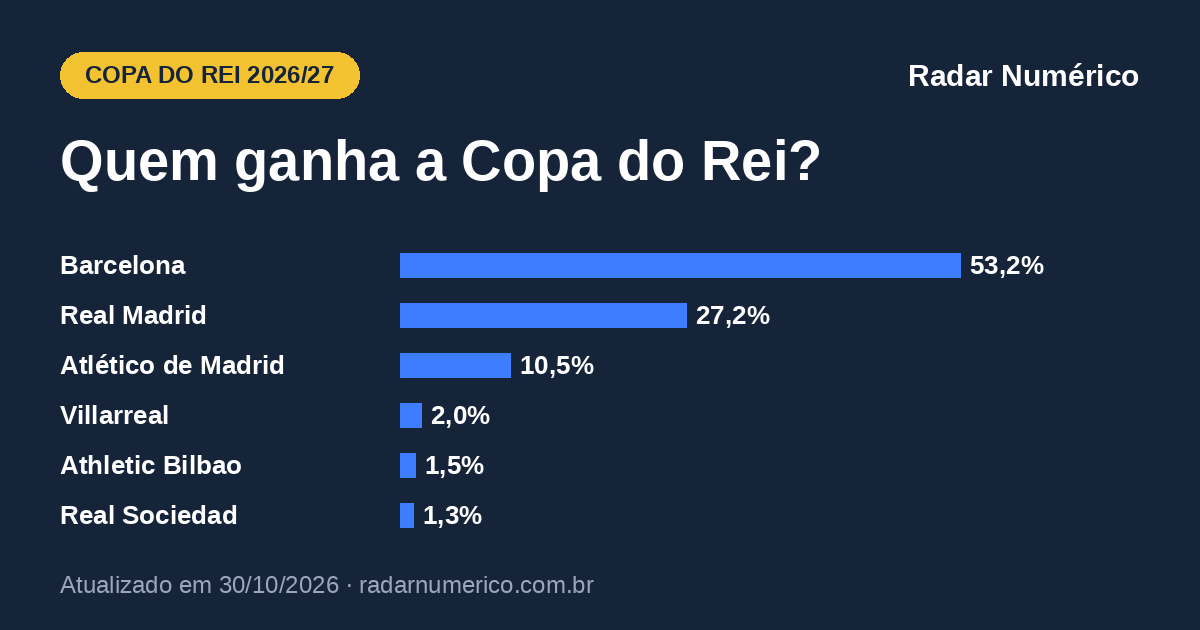
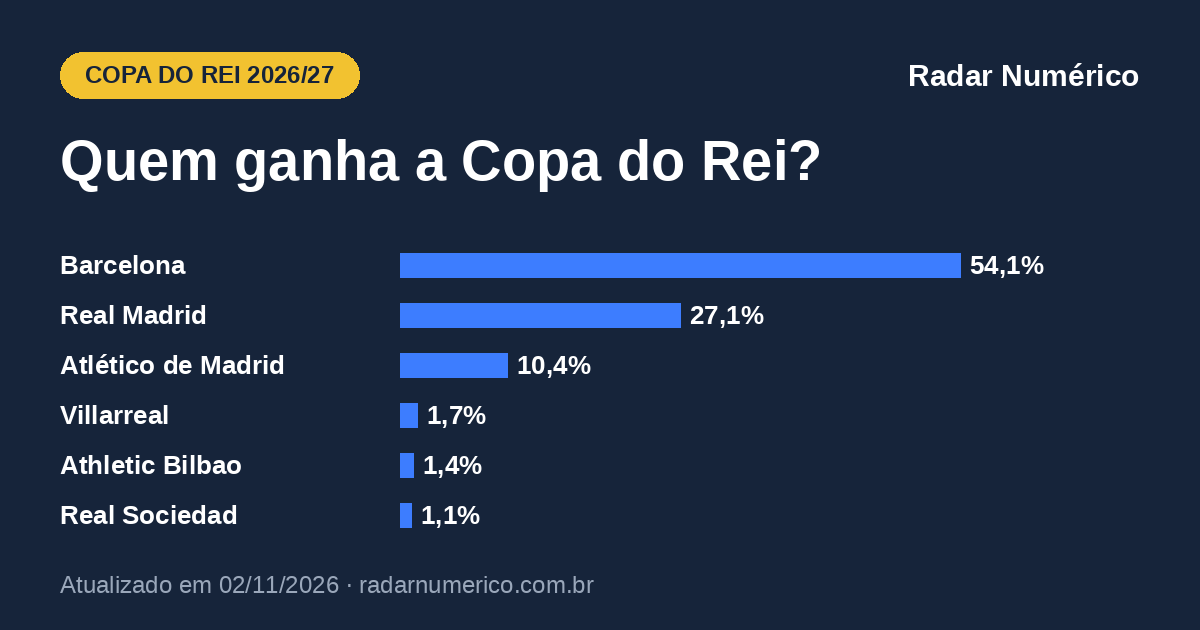
Ranking, ligas e copas europeias: atualizacao semanal 2026-11-02 (copa-do-rei)
Claude-Session: https://claude.ai/code/session_014c9M3pt9p9Std2Yz9ijZme

diff --git a/futebol/copa-do-rei/index.html b/futebol/copa-do-rei/index.html
@@ -13,11 +13,11 @@
 <meta property="og:title" content="Copa do Rei 2026/27: chances de título de cada time">
 <meta property="og:description" content="Probabilidades da Copa do Rei 2026/27: chance de cada time chegar às quartas, à semifinal, à final e de ser campeão.">
 <meta property="og:url" content="https://radarnumerico.com.br/futebol/copa-do-rei/">
-<meta property="og:image" content="https://radarnumerico.com.br/futebol/copa-do-rei/og.png?v=202610301128">
+<meta property="og:image" content="https://radarnumerico.com.br/futebol/copa-do-rei/og.png?v=202611021221">
 <meta property="og:image:width" content="1200">
 <meta property="og:image:height" content="630">
 <meta name="twitter:card" content="summary_large_image">
-<script type="application/ld+json">{"@context": "https://schema.org", "@graph": [{"@type": "WebPage", "@id": "https://radarnumerico.com.br/futebol/copa-do-rei/", "url": "https://radarnumerico.com.br/futebol/copa-do-rei/", "name": "Copa do Rei 2026/27: chances de título de cada time", "description": "Probabilidades da Copa do Rei 2026/27: chance de cada time chegar às quartas, à semifinal, à final e de ser campeão.", "inLanguage": "pt-BR", "dateModified": "2026-10-30T11:28:00-03:00", "isPartOf": {"@type": "WebSite", "name": "Radar Numérico", "url": "https://radarnumerico.com.br/"}, "about": {"@type": "Thing", "name": "Copa do Rei 2026/27"}}, {"@type": "BreadcrumbList", "itemListElement": [{"@type": "ListItem", "position": 1, "name": "Radar Numérico", "item": "https://radarnumerico.com.br/"}, {"@type": "ListItem", "position": 2, "name": "Copa do Rei 2026/27: probabilidades", "item": "https://radarnumerico.com.br/futebol/copa-do-rei/"}]}]}</script>
+<script type="application/ld+json">{"@context": "https://schema.org", "@graph": [{"@type": "WebPage", "@id": "https://radarnumerico.com.br/futebol/copa-do-rei/", "url": "https://radarnumerico.com.br/futebol/copa-do-rei/", "name": "Copa do Rei 2026/27: chances de título de cada time", "description": "Probabilidades da Copa do Rei 2026/27: chance de cada time chegar às quartas, à semifinal, à final e de ser campeão.", "inLanguage": "pt-BR", "dateModified": "2026-11-02T12:21:00-03:00", "isPartOf": {"@type": "WebSite", "name": "Radar Numérico", "url": "https://radarnumerico.com.br/"}, "about": {"@type": "Thing", "name": "Copa do Rei 2026/27"}}, {"@type": "BreadcrumbList", "itemListElement": [{"@type": "ListItem", "position": 1, "name": "Radar Numérico", "item": "https://radarnumerico.com.br/"}, {"@type": "ListItem", "position": 2, "name": "Copa do Rei 2026/27: probabilidades", "item": "https://radarnumerico.com.br/futebol/copa-do-rei/"}]}]}</script>
 <link rel="icon" type="image/png" href="/favicon.png">
 <link rel="apple-touch-icon" href="/apple-touch-icon.png">
 <link rel="preconnect" href="https://fonts.googleapis.com">
@@ -430,8 +430,8 @@ table.mzf td.bc{color:#fff}
 <header class="pg">
   <div class="kicker">Futebol · Espanha</div>
   <h1>Copa do Rei 2026/27: chances de título de cada time</h1>
-  <div class="selo" id="selo"><span>Atualizado em <b>30/10/2026 às 11h28</b></span><span>fase atual: <b>1ª fase</b></span><span>76 times vivos</span></div>
-  <p class="lede">O favorito ao título da Copa do Rei é o <b>Barcelona</b>, com 53,2%, seguido por Real Madrid (27,2%) e Atlético de Madrid (10,5%). Calculamos, para os 76 times vivos, a chance de chegar a cada fase, simulando os jogos já marcados e o sorteio das fases seguintes 20 mil vezes. O campeão ganha vaga na Liga Europa.</p>
+  <div class="selo" id="selo"><span>Atualizado em <b>02/11/2026 às 12h21</b></span><span>fase atual: <b>1ª fase</b></span><span>76 times vivos</span></div>
+  <p class="lede">O favorito ao título da Copa do Rei é o <b>Barcelona</b>, com 54,1%, seguido por Real Madrid (27,1%) e Atlético de Madrid (10,4%). Calculamos, para os 76 times vivos, a chance de chegar a cada fase, simulando os jogos já marcados e o sorteio das fases seguintes 20 mil vezes. O campeão ganha vaga na Liga Europa.</p>
 </header>
 
 <section class="g" id="s-trilha">
@@ -489,7 +489,7 @@ table.mzf td.bc{color:#fff}
 
 <div class="metod">
   <p class="marca">Radar Numérico</p>
-  <p id="rodape">Probabilidades da Copa do Rei 2026/27 atualizadas em 30/10/2026 às 11h28.</p>
+  <p id="rodape">Probabilidades da Copa do Rei 2026/27 atualizadas em 02/11/2026 às 12h21.</p>
   <p>Como calculamos: um algoritmo desenvolvido pelo economista Augusto Pellegrini estima a força de cada time a partir das cotações de mercado de todos os seus jogos recentes, em todas as competições. Simulamos a copa 20 mil vezes: os jogos já marcados e, depois, o sorteio de cada fase. Empate em jogo único vai à prorrogação e aos pênaltis. Fonte: Radar Numérico.</p>
 </div>
 </main>
@@ -498,7 +498,7 @@ table.mzf td.bc{color:#fff}
 <div id="tip" role="tooltip"></div>
 <div id="toast" role="status"></div>
 <script>
-const D = {"slug":"copa-do-rei","nome":"Copa do Rei","gerado_em":"2026-10-30T11:28","tams":[32,16,8,4,2,1],"rot":["16 avos","Oitavas","Quartas","Semifinal","Final","Campeão"],"atual_rot":"1ª fase","cai_antes":"Cai na 1ª fase ou na 2ª fase","n_vivos":76,"times":{"Club Portugalete":{"id":"3584","fases":[0.0671,0.0115,0.0018,0.0,0.0,0.0],"campeao":0.0,"forca":17.0,"cab":false},"Real Madrid":{"id":"1","fases":[1.0,0.8892,0.7559,0.6177,0.4757,0.2717],"campeao":0.2717,"forca":70.4,"cab":true},"Atlético de Madrid":{"id":"2","fases":[1.0,0.8183,0.63,0.4512,0.2734,0.1052],"campeao":0.1052,"forca":63.4,"cab":true},"Barcelona":{"id":"3","fases":[1.0,0.9251,0.8326,0.7425,0.6764,0.5316],"campeao":0.5316,"forca":76.5,"cab":true},"CE Europa":{"id":"3593","fases":[0.4227,0.1478,0.0414,0.008,0.0002,0.0],"campeao":0.0,"forca":30.0,"cab":false},"CD Castellon":{"id":"3601","fases":[0.507,0.2185,0.0809,0.0217,0.0029,0.0001],"campeao":0.0001,"forca":36.4,"cab":false},"Zamora CF":{"id":"33310","fases":[0.4251,0.1489,0.0408,0.0076,0.0004,0.0],"campeao":0.0,"forca":30.0,"cab":false},"CD Coria":{"id":"3616","fases":[0.4235,0.146,0.0422,0.0072,0.0006,0.0001],"campeao":0.0001,"forca":30.0,"cab":false},"Villarreal":{"id":"40","fases":[0.792,0.5583,0.3534,0.2029,0.0858,0.0203],"campeao":0.0203,"forca":54.9,"cab":false},"Gimnastica de Torrelavega":{"id":"7989","fases":[0.4246,0.1449,0.0423,0.0092,0.0006,0.0],"campeao":0.0,"forca":30.0,"cab":false},"Arosa":{"id":"7991","fases":[0.2531,0.052,0.0076,0.0006,0.0001,0.0],"campeao":0.0,"forca":18.7,"cab":false},"UE Tavernes":{"id":"203089","fases":[0.1047,0.0365,0.0112,0.0019,0.0001,0.0],"campeao":0.0,"forca":30.0,"cab":false},"Badajoz":{"id":"17246","fases":[0.1732,0.0624,0.0184,0.0029,0.0001,0.0],"campeao":0.0,"forca":30.0,"cab":false},"Extremadura":{"id":"17247","fases":[0.3199,0.0804,0.0167,0.0019,0.0001,0.0],"campeao":0.0,"forca":22.8,"cab":false},"Rayo Majadahonda":{"id":"8047","fases":[0.4243,0.1485,0.0442,0.0075,0.0004,0.0],"campeao":0.0,"forca":30.0,"cab":false},"CDA Navalcarnero":{"id":"8051","fases":[0.029,0.0082,0.0014,0.0001,0.0,0.0],"campeao":0.0,"forca":23.4,"cab":false},"Real Avila":{"id":"9641","fases":[0.3179,0.0801,0.0153,0.0016,0.0,0.0],"campeao":0.0,"forca":22.5,"cab":false},"Salmantino":{"id":"8065","fases":[0.0925,0.0324,0.0102,0.0021,0.0001,0.0],"campeao":0.0,"forca":30.0,"cab":false},"Almeria":{"id":"3461","fases":[0.6117,0.319,0.1473,0.0519,0.0106,0.0011],"campeao":0.0011,"forca":42.4,"cab":false},"Anaitasuna FT":{"id":"67974","fases":[0.0935,0.0331,0.0088,0.0019,0.0002,0.0],"campeao":0.0,"forca":30.0,"cab":false},"Athletic Bilbao":{"id":"3463","fases":[0.7648,0.5246,0.3196,0.1767,0.0717,0.0146],"campeao":0.0146,"forca":53.4,"cab":false},"Celta de Vigo":{"id":"3468","fases":[0.5514,0.335,0.1782,0.0844,0.0245,0.0037],"campeao":0.0037,"forca":48.7,"cab":false},"CD Atletico Paso":{"id":"105868","fases":[0.4258,0.1496,0.0427,0.007,0.0003,0.0],"campeao":0.0,"forca":30.0,"cab":false},"Elche":{"id":"3471","fases":[0.59,0.3029,0.1349,0.0466,0.0076,0.0008],"campeao":0.0008,"forca":41.5,"cab":false},"Getafe":{"id":"3475","fases":[0.6191,0.3285,0.155,0.0597,0.0123,0.0013],"campeao":0.0013,"forca":43.6,"cab":false},"Antequera":{"id":"8084","fases":[0.3981,0.1351,0.0402,0.0079,0.0005,0.0],"campeao":0.0,"forca":30.1,"cab":false},"Granada":{"id":"3477","fases":[0.5297,0.2406,0.0915,0.0253,0.0033,0.0],"campeao":0.0,"forca":38.2,"cab":false},"Levante":{"id":"3479","fases":[0.4237,0.2229,0.1017,0.0375,0.0076,0.0011],"campeao":0.0011,"forca":43.1,"cab":false},"AD Ceuta":{"id":"8089","fases":[0.4461,0.1651,0.0503,0.0113,0.0009,0.0001],"campeao":0.0001,"forca":32.7,"cab":false},"CD Leganes":{"id":"1178","fases":[0.2935,0.1283,0.0488,0.0137,0.0016,0.0001],"campeao":0.0001,"forca":36.9,"cab":false},"Málaga":{"id":"3482","fases":[0.5791,0.2919,0.1288,0.0425,0.0073,0.0009],"campeao":0.0009,"forca":40.9,"cab":false},"Racing Santander":{"id":"1180","fases":[0.5966,0.3086,0.1449,0.0547,0.0105,0.0008],"campeao":0.0008,"forca":42.4,"cab":false},"Rayo Vallecano":{"id":"3485","fases":[0.6924,0.4133,0.2175,0.095,0.0267,0.0037],"campeao":0.0037,"forca":47.7,"cab":false},"Cadiz":{"id":"1177","fases":[0.4838,0.1981,0.0701,0.0163,0.0014,0.0001],"campeao":0.0001,"forca":35.3,"cab":false},"Real Sociedad":{"id":"3487","fases":[1.0,0.6624,0.3937,0.2095,0.0727,0.0129],"campeao":0.0129,"forca":52.0,"cab":true},"Sevilla":{"id":"3490","fases":[0.7004,0.428,0.2345,0.1087,0.0316,0.0046],"campeao":0.0046,"forca":48.5,"cab":false},"CD Mirandes":{"id":"933","fases":[0.4553,0.1763,0.0551,0.0118,0.001,0.0001],"campeao":0.0001,"forca":33.6,"cab":false},"Valencia":{"id":"3494","fases":[0.498,0.2872,0.1446,0.0621,0.0146,0.0014],"campeao":0.0014,"forca":46.0,"cab":false},"Alavés":{"id":"168","fases":[0.5416,0.3249,0.1716,0.0768,0.0214,0.0029],"campeao":0.0029,"forca":47.6,"cab":false},"Deportiva Ponferradina":{"id":"936","fases":[0.4338,0.1596,0.0512,0.0107,0.0013,0.0],"campeao":0.0,"forca":32.2,"cab":false},"Girona":{"id":"938","fases":[0.7157,0.4478,0.2482,0.1183,0.0372,0.0056],"campeao":0.0056,"forca":49.8,"cab":false},"Betis":{"id":"3499","fases":[0.6897,0.4602,0.2767,0.1476,0.0537,0.0102],"campeao":0.0102,"forca":52.6,"cab":false},"UD Las Palmas":{"id":"940","fases":[0.4249,0.1484,0.0432,0.0086,0.0005,0.0],"campeao":0.0,"forca":30.0,"cab":false},"Mallorca":{"id":"939","fases":[0.4943,0.2858,0.1464,0.0614,0.0152,0.0017],"campeao":0.0017,"forca":45.9,"cab":false},"Numancia":{"id":"174","fases":[0.418,0.1434,0.0387,0.0053,0.0002,0.0],"campeao":0.0,"forca":28.2,"cab":false},"Tenerife":{"id":"943","fases":[0.3026,0.1338,0.0519,0.0146,0.0014,0.0],"campeao":0.0,"forca":37.6,"cab":false},"Osasuna":{"id":"3503","fases":[0.6362,0.3554,0.1749,0.069,0.0144,0.0015],"campeao":0.0015,"forca":44.9,"cab":false},"SD Eibar":{"id":"945","fases":[0.3008,0.1308,0.0506,0.0143,0.002,0.0002],"campeao":0.0002,"forca":37.7,"cab":false},"Valladolid":{"id":"3506","fases":[0.4233,0.1488,0.043,0.007,0.0005,0.0],"campeao":0.0,"forca":30.0,"cab":false},"Deportivo La Coruña":{"id":"947","fases":[0.6152,0.3241,0.1507,0.0515,0.0103,0.001],"campeao":0.001,"forca":42.9,"cab":false},"Real Jaen":{"id":"948","fases":[0.1721,0.0582,0.0169,0.003,0.0001,0.0],"campeao":0.0,"forca":30.0,"cab":false},"CE Sabadell":{"id":"950","fases":[0.298,0.1295,0.0499,0.0138,0.0018,0.0001],"campeao":0.0001,"forca":37.1,"cab":false},"Real Zaragoza":{"id":"951","fases":[0.4487,0.1686,0.0539,0.0114,0.001,0.0001],"campeao":0.0001,"forca":32.8,"cab":false},"Sporting Gijon":{"id":"952","fases":[0.5211,0.2326,0.0869,0.0239,0.0029,0.0001],"campeao":0.0001,"forca":37.6,"cab":false},"Burgos":{"id":"3512","fases":[0.4775,0.1913,0.0649,0.0158,0.0013,0.0001],"campeao":0.0001,"forca":34.6,"cab":false},"CD Leonesa":{"id":"3515","fases":[0.502,0.2095,0.0744,0.0191,0.0018,0.0001],"campeao":0.0001,"forca":35.9,"cab":false},"Albacete":{"id":"3497","fases":[0.2918,0.1296,0.0517,0.0146,0.0016,0.0001],"campeao":0.0001,"forca":37.2,"cab":false},"Deportiva Minera":{"id":"8125","fases":[0.2628,0.092,0.0268,0.0049,0.0003,0.0],"campeao":0.0,"forca":30.0,"cab":false},"UD Logrones":{"id":"3526","fases":[0.0826,0.0202,0.0037,0.0003,0.0,0.0],"campeao":0.0,"forca":22.4,"cab":false},"SD Amorebieta":{"id":"3528","fases":[0.3116,0.109,0.0315,0.006,0.0003,0.0],"campeao":0.0,"forca":30.0,"cab":false},"Barakaldo":{"id":"3529","fases":[0.2478,0.0891,0.0264,0.0056,0.0004,0.0],"campeao":0.0,"forca":30.0,"cab":false},"SD Huesca":{"id":"3533","fases":[0.5158,0.2258,0.0872,0.0242,0.0028,0.0002],"campeao":0.0002,"forca":37.2,"cab":false},"Real Union De Irun":{"id":"3535","fases":[0.2916,0.104,0.0291,0.0046,0.0001,0.0],"campeao":0.0,"forca":30.0,"cab":false},"Sestao River":{"id":"3536","fases":[0.3276,0.0852,0.0185,0.0021,0.0001,0.0],"campeao":0.0,"forca":23.7,"cab":false},"CD Pamplona":{"id":"8144","fases":[0.177,0.0635,0.0188,0.0029,0.0003,0.0],"campeao":0.0,"forca":30.0,"cab":false},"Trival Valderas":{"id":"3538","fases":[0.1799,0.0628,0.0188,0.0038,0.0002,0.0],"campeao":0.0,"forca":30.0,"cab":false},"CD Alcoyano":{"id":"3540","fases":[0.107,0.0357,0.0109,0.0021,0.0001,0.0],"campeao":0.0,"forca":30.0,"cab":false},"Eldense":{"id":"3544","fases":[0.4387,0.1584,0.0518,0.0101,0.0009,0.0001],"campeao":0.0001,"forca":31.8,"cab":false},"UE Sant Andreu":{"id":"3549","fases":[0.3219,0.0838,0.0173,0.0028,0.0001,0.0],"campeao":0.0,"forca":23.7,"cab":false},"FC Andorra":{"id":"8158","fases":[0.4728,0.187,0.0644,0.0156,0.0015,0.0001],"campeao":0.0001,"forca":34.3,"cab":false},"Cartagena":{"id":"3553","fases":[0.1541,0.0496,0.014,0.0024,0.0001,0.0],"campeao":0.0,"forca":28.2,"cab":false},"Utebo FC":{"id":"8163","fases":[0.1805,0.0611,0.0185,0.0035,0.0001,0.0],"campeao":0.0,"forca":30.0,"cab":false},"Calvo Sotelo Puertollano":{"id":"8165","fases":[0.1757,0.0588,0.0169,0.0031,0.0001,0.0],"campeao":0.0,"forca":30.0,"cab":false},"Reus Reddis":{"id":"163569","fases":[0.1335,0.0347,0.0052,0.0004,0.0,0.0],"campeao":0.0,"forca":22.6,"cab":false},"CD Mijas":{"id":"22772","fases":[0.2537,0.0916,0.0266,0.0048,0.0003,0.0],"campeao":0.0,"forca":30.0,"cab":false},"CD Tarancon":{"id":"87288","fases":[0.1284,0.046,0.0131,0.003,0.0001,0.0],"campeao":0.0,"forca":30.0,"cab":false}},"ordem":["Barcelona","Real Madrid","Atlético de Madrid","Villarreal","Athletic Bilbao","Real Sociedad","Betis","Girona","Sevilla","Celta de Vigo","Rayo Vallecano","Alavés","Mallorca","Osasuna","Valencia","Getafe","Levante","Almeria","Deportivo La Coruña","Málaga","Racing Santander","Elche","SD Eibar","SD Huesca","Sporting Gijon","Albacete","CE Sabadell","CD Leganes","CD Castellon","CD Leonesa","Cadiz","Burgos","FC Andorra","CD Mirandes","Real Zaragoza","AD Ceuta","Eldense","CD Coria","Granada","Tenerife","Deportiva Ponferradina","Antequera","CE Europa","Zamora CF","Gimnastica de Torrelavega","UE Tavernes","Badajoz","Rayo Majadahonda","Salmantino","Anaitasuna FT","CD Atletico Paso","UD Las Palmas","Valladolid","Real Jaen","Deportiva Minera","SD Amorebieta","Barakaldo","Real Union De Irun","CD Pamplona","Trival Valderas","CD Alcoyano","Utebo FC","Calvo Sotelo Puertollano","CD Mijas","CD Tarancon","Numancia","Cartagena","Sestao River","UE Sant Andreu","CDA Navalcarnero","Extremadura","Reus Reddis","Real Avila","UD Logrones","Arosa","Club Portugalete"],"confrontos":[{"m":"CD Pamplona","v":"SD Eibar","pm":0.4097,"vm":0.2955,"e":0.2844,"vv":0.4201},{"m":"Anaitasuna FT","v":"Alavés","pm":0.2171,"vm":0.1652,"e":0.2507,"vv":0.5841},{"m":"Club Portugalete","v":"Real Union De Irun","pm":0.2988,"vm":0.2202,"e":0.2704,"vv":0.5094},{"m":"SD Amorebieta","v":"UD Logrones","pm":0.7386,"vm":0.5502,"e":0.2605,"vv":0.1893},{"m":"Utebo FC","v":"CE Sabadell","pm":0.4261,"vm":0.3061,"e":0.2854,"vv":0.4085},{"m":"Deportiva Minera","v":"Cartagena","pm":0.6258,"vm":0.4525,"e":0.2805,"vv":0.2669},{"m":"Calvo Sotelo Puertollano","v":"Albacete","pm":0.4248,"vm":0.3033,"e":0.2852,"vv":0.4115},{"m":"Badajoz","v":"Tenerife","pm":0.4159,"vm":0.2982,"e":0.2847,"vv":0.4171},{"m":"CD Tarancon","v":"Levante","pm":0.2987,"vm":0.2184,"e":0.2699,"vv":0.5117},{"m":"CD Alcoyano","v":"Mallorca","pm":0.25,"vm":0.1845,"e":0.2587,"vv":0.5568},{"m":"Trival Valderas","v":"CD Leganes","pm":0.4275,"vm":0.3084,"e":0.2856,"vv":0.406},{"m":"CDA Navalcarnero","v":"Betis","pm":0.0894,"vm":0.0719,"e":0.1864,"vv":0.7417},{"m":"Reus Reddis","v":"Barakaldo","pm":0.423,"vm":0.3011,"e":0.285,"vv":0.4139},{"m":"Salmantino","v":"Celta de Vigo","pm":0.2057,"vm":0.1536,"e":0.2453,"vv":0.6012},{"m":"UE Tavernes","v":"Valencia","pm":0.2422,"vm":0.1827,"e":0.258,"vv":0.5593},{"m":"CD Mijas","v":"Real Jaen","pm":0.5923,"vm":0.4223,"e":0.2842,"vv":0.2935}],"finais":[{"a":"Real Madrid","b":"Barcelona","p":0.2506,"pa":0.3649},{"a":"Atlético de Madrid","b":"Barcelona","p":0.1339,"pa":0.224},{"a":"Real Madrid","b":"Atlético de Madrid","p":0.0756,"pa":0.6596},{"a":"Barcelona","b":"Villarreal","p":0.0436,"pa":0.8624},{"a":"Barcelona","b":"Real Sociedad","p":0.0383,"pa":0.9204},{"a":"Barcelona","b":"Athletic Bilbao","p":0.0367,"pa":0.9154}],"outros":0.0,"matriz":{"tipo":"sorteio","linhas":[["Barcelona",0.6764],["Real Madrid",0.4757],["Atlético de Madrid",0.2734],["Villarreal",0.0858],["Real Sociedad",0.0727]],"colunas":[["Real Madrid",0.4757],["Atlético de Madrid",0.2734],["Villarreal",0.0858],["Real Sociedad",0.0727],["Athletic Bilbao",0.0717]],"cel":[[0.2506,0.1339,0.0436,0.0383,0.0367],[null,0.0756,0.0219,0.0179,0.0171],[null,null,0.0098,0.0078,0.0086],[null,null,null,0.0015,0.0013],[null,null,null,null,0.0014]]},"chave":{"fases":["16 avos","Oitavas","Quartas","Semifinal","Final"],"jogos":[[null,null],[null,null],[null,null],[null,null],[null,null],[null,null],[null,null],[null,null],[null,null],[null,null],[null,null],[null,null],[null,null],[null,null],[null,null],[null,null]],"atual":false,"p":null,"fixa":false},"SIGLA":{"Club Portugalete":"CLU","Real Madrid":"RMA","Atlético de Madrid":"ATM","Barcelona":"BAR","CE Europa":"CEE","CD Castellon":"CDC","Zamora CF":"ZAM","CD Coria":"CDC","Villarreal":"VIL","Gimnastica de Torrelavega":"GIM","Arosa":"ARO","UE Tavernes":"UET","Badajoz":"BAD","Extremadura":"EXT","Rayo Majadahonda":"RAY","CDA Navalcarnero":"CDA","Real Avila":"REA","Salmantino":"SAL","Almeria":"ALM","Anaitasuna FT":"ANA","Athletic Bilbao":"ATH","Celta de Vigo":"CEL","CD Atletico Paso":"CDA","Elche":"ELC","Getafe":"GET","Antequera":"ANT","Granada":"GRA","Levante":"LEV","AD Ceuta":"ADC","CD Leganes":"CDL","Málaga":"MAL","Racing Santander":"RAC","Rayo Vallecano":"RAY","Cadiz":"CAD","Real Sociedad":"REA","Sevilla":"SEV","CD Mirandes":"CDM","Valencia":"VAL","Alavés":"ALA","Deportiva Ponferradina":"DEP","Girona":"GIR","Betis":"BET","UD Las Palmas":"UDL","Mallorca":"MAL","Numancia":"NUM","Tenerife":"TEN","Osasuna":"OSA","SD Eibar":"SDE","Valladolid":"VAL","Deportivo La Coruña":"DEP","Real Jaen":"REA","CE Sabadell":"CES","Real Zaragoza":"REA","Sporting Gijon":"SPO","Burgos":"BUR","CD Leonesa":"CDL","Albacete":"ALB","Deportiva Minera":"DEP","UD Logrones":"UDL","SD Amorebieta":"SDA","Barakaldo":"BAR","SD Huesca":"SDH","Real Union De Irun":"REA","Sestao River":"SES","CD Pamplona":"CDP","Trival Valderas":"TRI","CD Alcoyano":"CDA","Eldense":"ELD","UE Sant Andreu":"UES","FC Andorra":"FCA","Cartagena":"CAR","Utebo FC":"UTE","Calvo Sotelo Puertollano":"CAL","Reus Reddis":"REU","CD Mijas":"CDM","CD Tarancon":"CDT"},"SLUG":{"Club Portugalete":"club-portugalete","Real Madrid":"real-madrid","Atlético de Madrid":"atletico-de-madrid","Barcelona":"barcelona","CE Europa":"ce-europa","CD Castellon":"cd-castellon","Zamora CF":"zamora-cf","CD Coria":"cd-coria","Villarreal":"villarreal","Gimnastica de Torrelavega":"gimnastica-de-torrelavega","Arosa":"arosa","UE Tavernes":"ue-tavernes","Badajoz":"badajoz","Extremadura":"extremadura","Rayo Majadahonda":"rayo-majadahonda","CDA Navalcarnero":"cda-navalcarnero","Real Avila":"real-avila","Salmantino":"salmantino","Almeria":"almeria","Anaitasuna FT":"anaitasuna-ft","Athletic Bilbao":"athletic-bilbao","Celta de Vigo":"celta-de-vigo","CD Atletico Paso":"cd-atletico-paso","Elche":"elche","Getafe":"getafe","Antequera":"antequera","Granada":"granada","Levante":"levante","AD Ceuta":"ad-ceuta","CD Leganes":"cd-leganes","Málaga":"malaga","Racing Santander":"racing-santander","Rayo Vallecano":"rayo-vallecano","Cadiz":"cadiz","Real Sociedad":"real-sociedad","Sevilla":"sevilla","CD Mirandes":"cd-mirandes","Valencia":"valencia","Alavés":"alaves","Deportiva Ponferradina":"deportiva-ponferradina","Girona":"girona","Betis":"betis","UD Las Palmas":"ud-las-palmas","Mallorca":"mallorca","Numancia":"numancia","Tenerife":"tenerife","Osasuna":"osasuna","SD Eibar":"sd-eibar","Valladolid":"valladolid","Deportivo La Coruña":"deportivo-la-coruna","Real Jaen":"real-jaen","CE Sabadell":"ce-sabadell","Real Zaragoza":"real-zaragoza","Sporting Gijon":"sporting-gijon","Burgos":"burgos","CD Leonesa":"cd-leonesa","Albacete":"albacete","Deportiva Minera":"deportiva-minera","UD Logrones":"ud-logrones","SD Amorebieta":"sd-amorebieta","Barakaldo":"barakaldo","SD Huesca":"sd-huesca","Real Union De Irun":"real-union-de-irun","Sestao River":"sestao-river","CD Pamplona":"cd-pamplona","Trival Valderas":"trival-valderas","CD Alcoyano":"cd-alcoyano","Eldense":"eldense","UE Sant Andreu":"ue-sant-andreu","FC Andorra":"fc-andorra","Cartagena":"cartagena","Utebo FC":"utebo-fc","Calvo Sotelo Puertollano":"calvo-sotelo-puertollano","Reus Reddis":"reus-reddis","CD Mijas":"cd-mijas","CD Tarancon":"cd-tarancon"},"CORES":{"Club Portugalete":["#111111","#FFFFFF"],"Real Madrid":["#FFFFFF","#FEBE10"],"Atlético de Madrid":["#CB3524","#FFFFFF"],"Barcelona":["#A50044","#004D98"],"CE Europa":["#E35205","#FFFFFF"],"CD Castellon":["#16243A","#FFFFFF"],"Zamora CF":["#3EA6DD","#FFFFFF"],"CD Coria":["#C8102E","#FFFFFF"],"Villarreal":["#FFE667","#005187"],"Gimnastica de Torrelavega":["#3EA6DD","#FFFFFF"],"Arosa":["#0055A4","#FFFFFF"],"UE Tavernes":["#111111","#FFFFFF"],"Badajoz":["#5B2C83","#FFFFFF"],"Extremadura":["#6C1D45","#FFFFFF"],"Rayo Majadahonda":["#5B2C83","#FFFFFF"],"CDA Navalcarnero":["#111111","#FFFFFF"],"Real Avila":["#00843D","#FFFFFF"],"Salmantino":["#111111","#FFFFFF"],"Almeria":["#5B2C83","#FFFFFF"],"Anaitasuna FT":["#F2C230","#FFFFFF"],"Athletic Bilbao":["#C8102E","#FFFFFF"],"Celta de Vigo":["#5B2C83","#FFFFFF"],"CD Atletico Paso":["#00843D","#FFFFFF"],"Elche":["#C8102E","#FFFFFF"],"Getafe":["#E35205","#FFFFFF"],"Antequera":["#6C1D45","#FFFFFF"],"Granada":["#111111","#FFFFFF"],"Levante":["#5B2C83","#FFFFFF"],"AD Ceuta":["#00843D","#FFFFFF"],"CD Leganes":["#16243A","#FFFFFF"],"Málaga":["#3EA6DD","#FFFFFF"],"Racing Santander":["#111111","#FFFFFF"],"Rayo Vallecano":["#16243A","#FFFFFF"],"Cadiz":["#C8102E","#FFFFFF"],"Real Sociedad":["#111111","#FFFFFF"],"Sevilla":["#16243A","#FFFFFF"],"CD Mirandes":["#111111","#FFFFFF"],"Valencia":["#00843D","#FFFFFF"],"Alavés":["#111111","#FFFFFF"],"Deportiva Ponferradina":["#F2C230","#FFFFFF"],"Girona":["#E35205","#FFFFFF"],"Betis":["#0BB363","#FFFFFF"],"UD Las Palmas":["#C8102E","#FFFFFF"],"Mallorca":["#C8102E","#FFFFFF"],"Numancia":["#0055A4","#FFFFFF"],"Tenerife":["#E35205","#FFFFFF"],"Osasuna":["#16243A","#FFFFFF"],"SD Eibar":["#111111","#FFFFFF"],"Valladolid":["#16243A","#FFFFFF"],"Deportivo La Coruña":["#16243A","#FFFFFF"],"Real Jaen":["#0055A4","#FFFFFF"],"CE Sabadell":["#16243A","#FFFFFF"],"Real Zaragoza":["#C8102E","#FFFFFF"],"Sporting Gijon":["#5B2C83","#FFFFFF"],"Burgos":["#111111","#FFFFFF"],"CD Leonesa":["#E35205","#FFFFFF"],"Albacete":["#F2C230","#FFFFFF"],"Deportiva Minera":["#E35205","#FFFFFF"],"UD Logrones":["#111111","#FFFFFF"],"SD Amorebieta":["#16243A","#FFFFFF"],"Barakaldo":["#3EA6DD","#FFFFFF"],"SD Huesca":["#6C1D45","#FFFFFF"],"Real Union De Irun":["#E35205","#FFFFFF"],"Sestao River":["#F2C230","#FFFFFF"],"CD Pamplona":["#C8102E","#FFFFFF"],"Trival Valderas":["#111111","#FFFFFF"],"CD Alcoyano":["#5B2C83","#FFFFFF"],"Eldense":["#6C1D45","#FFFFFF"],"UE Sant Andreu":["#C8102E","#FFFFFF"],"FC Andorra":["#16243A","#FFFFFF"],"Cartagena":["#0055A4","#FFFFFF"],"Utebo FC":["#16243A","#FFFFFF"],"Calvo Sotelo Puertollano":["#E35205","#FFFFFF"],"Reus Reddis":["#16243A","#FFFFFF"],"CD Mijas":["#3EA6DD","#FFFFFF"],"CD Tarancon":["#5B2C83","#FFFFFF"]},"vaga":"Liga Europa","liga":"la-liga","liga_nome":"La Liga","nota_fase":"Jogo único na casa do time de divisão mais baixa até as oitavas; quartas em jogo único; semifinal em ida e volta. Os quatro times da Supercopa (Barcelona, Real Madrid, Atlético de Madrid e Real Sociedad) entram nos 16 avos de final.","final":"Final em jogo único, em campo neutro.","ultimo_jogo":{"data":"2026-10-29","hora":"17:00","m":"Xerez CD","v":"Cadiz","gm":1,"gv":3,"rodada":"Round 1"}};
+const D = {"slug":"copa-do-rei","nome":"Copa do Rei","gerado_em":"2026-11-02T12:21","tams":[32,16,8,4,2,1],"rot":["16 avos","Oitavas","Quartas","Semifinal","Final","Campeão"],"atual_rot":"1ª fase","cai_antes":"Cai na 1ª fase ou na 2ª fase","n_vivos":76,"times":{"Club Portugalete":{"id":"3584","fases":[0.0681,0.0129,0.0019,0.0001,0.0,0.0],"campeao":0.0,"forca":16.2,"cab":false},"Real Madrid":{"id":"1","fases":[1.0,0.8897,0.755,0.6211,0.4807,0.2712],"campeao":0.2712,"forca":70.4,"cab":true},"Atlético de Madrid":{"id":"2","fases":[1.0,0.8249,0.6333,0.4566,0.2783,0.1041],"campeao":0.1041,"forca":63.4,"cab":true},"Barcelona":{"id":"3","fases":[1.0,0.9269,0.8369,0.7486,0.6815,0.5412],"campeao":0.5412,"forca":76.3,"cab":true},"CE Europa":{"id":"3593","fases":[0.4355,0.1547,0.0464,0.0081,0.0008,0.0001],"campeao":0.0001,"forca":30.0,"cab":false},"CD Castellon":{"id":"3601","fases":[0.4329,0.1555,0.0495,0.0092,0.0006,0.0],"campeao":0.0,"forca":30.0,"cab":false},"Zamora CF":{"id":"33310","fases":[0.4258,0.1512,0.045,0.0081,0.0004,0.0],"campeao":0.0,"forca":30.0,"cab":false},"CD Coria":{"id":"3616","fases":[0.4328,0.1542,0.0439,0.0085,0.0004,0.0001],"campeao":0.0001,"forca":30.0,"cab":false},"Villarreal":{"id":"40","fases":[0.7923,0.5517,0.3482,0.2016,0.0818,0.0171],"campeao":0.0171,"forca":54.7,"cab":false},"Gimnastica de Torrelavega":{"id":"7989","fases":[0.4323,0.1573,0.0483,0.0076,0.0004,0.0],"campeao":0.0,"forca":30.0,"cab":false},"Arosa":{"id":"7991","fases":[0.2555,0.0517,0.0078,0.0005,0.0,0.0],"campeao":0.0,"forca":18.3,"cab":false},"UE Tavernes":{"id":"203089","fases":[0.117,0.0401,0.012,0.0021,0.0001,0.0],"campeao":0.0,"forca":30.0,"cab":false},"Badajoz":{"id":"17246","fases":[0.1897,0.068,0.0208,0.0034,0.0001,0.0],"campeao":0.0,"forca":30.0,"cab":false},"Extremadura":{"id":"17247","fases":[0.3202,0.0836,0.0163,0.0023,0.0001,0.0],"campeao":0.0,"forca":22.4,"cab":false},"Rayo Majadahonda":{"id":"8047","fases":[0.4286,0.1541,0.0455,0.0091,0.0008,0.0001],"campeao":0.0001,"forca":30.0,"cab":false},"CDA Navalcarnero":{"id":"8051","fases":[0.027,0.0069,0.0014,0.0002,0.0001,0.0],"campeao":0.0,"forca":22.4,"cab":false},"Real Avila":{"id":"9641","fases":[0.3091,0.0755,0.0152,0.0015,0.0,0.0],"campeao":0.0,"forca":21.8,"cab":false},"Salmantino":{"id":"8065","fases":[0.09,0.0333,0.0097,0.0018,0.0001,0.0],"campeao":0.0,"forca":30.0,"cab":false},"Almeria":{"id":"3461","fases":[0.6087,0.3201,0.1434,0.0529,0.0097,0.0008],"campeao":0.0008,"forca":41.9,"cab":false},"Anaitasuna FT":{"id":"67974","fases":[0.1043,0.039,0.0098,0.0021,0.0001,0.0],"campeao":0.0,"forca":30.0,"cab":false},"Athletic Bilbao":{"id":"3463","fases":[0.7726,0.5262,0.3219,0.1761,0.066,0.0135],"campeao":0.0135,"forca":53.2,"cab":false},"Celta de Vigo":{"id":"3468","fases":[0.5538,0.3453,0.1898,0.0856,0.0242,0.0035],"campeao":0.0035,"forca":48.5,"cab":false},"CD Atletico Paso":{"id":"105868","fases":[0.4337,0.1583,0.0472,0.0079,0.0004,0.0],"campeao":0.0,"forca":30.0,"cab":false},"Elche":{"id":"3471","fases":[0.5928,0.3073,0.1386,0.047,0.0076,0.0003],"campeao":0.0003,"forca":41.4,"cab":false},"Getafe":{"id":"3475","fases":[0.618,0.325,0.1517,0.0566,0.0115,0.0013],"campeao":0.0013,"forca":42.8,"cab":false},"Antequera":{"id":"8084","fases":[0.4349,0.1577,0.0449,0.0087,0.0006,0.0],"campeao":0.0,"forca":30.0,"cab":false},"Granada":{"id":"3477","fases":[0.5172,0.2253,0.0868,0.0257,0.0032,0.0001],"campeao":0.0001,"forca":37.5,"cab":false},"Levante":{"id":"3479","fases":[0.4158,0.2188,0.101,0.0377,0.0078,0.0008],"campeao":0.0008,"forca":42.5,"cab":false},"Cadiz":{"id":"1177","fases":[0.4949,0.2069,0.0756,0.0206,0.0021,0.0001],"campeao":0.0001,"forca":35.3,"cab":false},"CD Leganes":{"id":"1178","fases":[0.2843,0.1265,0.0464,0.0117,0.0015,0.0001],"campeao":0.0001,"forca":36.5,"cab":false},"AD Ceuta":{"id":"8089","fases":[0.4503,0.1701,0.0561,0.012,0.0009,0.0],"campeao":0.0,"forca":32.5,"cab":false},"Racing Santander":{"id":"1180","fases":[0.5996,0.3136,0.1434,0.051,0.008,0.0009],"campeao":0.0009,"forca":41.5,"cab":false},"Málaga":{"id":"3482","fases":[0.5707,0.2847,0.1212,0.0393,0.0059,0.0003],"campeao":0.0003,"forca":40.0,"cab":false},"Rayo Vallecano":{"id":"3485","fases":[0.6825,0.4089,0.2128,0.0957,0.0251,0.0033],"campeao":0.0033,"forca":47.1,"cab":false},"Real Sociedad":{"id":"3487","fases":[1.0,0.6732,0.4032,0.2084,0.0736,0.0111],"campeao":0.0111,"forca":51.7,"cab":true},"Sevilla":{"id":"3490","fases":[0.6954,0.4335,0.2368,0.1076,0.0304,0.0042],"campeao":0.0042,"forca":48.2,"cab":false},"CD Mirandes":{"id":"933","fases":[0.4489,0.1683,0.0556,0.0141,0.0014,0.0001],"campeao":0.0001,"forca":32.8,"cab":false},"Valencia":{"id":"3494","fases":[0.4797,0.2751,0.1374,0.0568,0.0141,0.001],"campeao":0.001,"forca":45.4,"cab":false},"Alavés":{"id":"168","fases":[0.5256,0.3174,0.1694,0.0731,0.0192,0.0027],"campeao":0.0027,"forca":46.9,"cab":false},"Albacete":{"id":"3497","fases":[0.294,0.1263,0.049,0.0135,0.0012,0.0001],"campeao":0.0001,"forca":36.9,"cab":false},"Girona":{"id":"938","fases":[0.7186,0.4558,0.2567,0.1206,0.0379,0.0059],"campeao":0.0059,"forca":49.4,"cab":false},"Betis":{"id":"3499","fases":[0.7011,0.4718,0.2908,0.1553,0.0588,0.0098],"campeao":0.0098,"forca":52.6,"cab":false},"Mallorca":{"id":"939","fases":[0.4798,0.273,0.1364,0.0554,0.0139,0.0016],"campeao":0.0016,"forca":45.4,"cab":false},"Deportiva Ponferradina":{"id":"936","fases":[0.4262,0.1484,0.0427,0.008,0.0008,0.0001],"campeao":0.0001,"forca":31.1,"cab":false},"UD Las Palmas":{"id":"940","fases":[0.4331,0.15,0.0462,0.0092,0.0004,0.0],"campeao":0.0,"forca":30.0,"cab":false},"Osasuna":{"id":"3503","fases":[0.6373,0.3569,0.175,0.0691,0.0159,0.002],"campeao":0.002,"forca":44.3,"cab":false},"Numancia":{"id":"174","fases":[0.4127,0.1361,0.0366,0.0065,0.0003,0.0],"campeao":0.0,"forca":27.6,"cab":false},"Tenerife":{"id":"943","fases":[0.2881,0.125,0.0475,0.0136,0.001,0.0001],"campeao":0.0001,"forca":36.8,"cab":false},"Valladolid":{"id":"3506","fases":[0.4279,0.1551,0.0464,0.0083,0.0003,0.0001],"campeao":0.0001,"forca":30.0,"cab":false},"Deportivo La Coruña":{"id":"947","fases":[0.6165,0.3245,0.1514,0.0554,0.0112,0.001],"campeao":0.001,"forca":42.5,"cab":false},"Real Jaen":{"id":"948","fases":[0.1739,0.0621,0.0194,0.0038,0.0002,0.0],"campeao":0.0,"forca":30.0,"cab":false},"SD Eibar":{"id":"945","fases":[0.3018,0.1353,0.0522,0.015,0.0021,0.0003],"campeao":0.0003,"forca":37.5,"cab":false},"CE Sabadell":{"id":"950","fases":[0.2848,0.1251,0.0461,0.014,0.0019,0.0001],"campeao":0.0001,"forca":36.5,"cab":false},"Real Zaragoza":{"id":"951","fases":[0.4325,0.1547,0.0475,0.0097,0.0004,0.0001],"campeao":0.0001,"forca":31.9,"cab":false},"Sporting Gijon":{"id":"952","fases":[0.5088,0.2208,0.0808,0.022,0.0025,0.0001],"campeao":0.0001,"forca":36.9,"cab":false},"Burgos":{"id":"3512","fases":[0.4703,0.1842,0.0621,0.0146,0.0013,0.0001],"campeao":0.0001,"forca":33.7,"cab":false},"CD Leonesa":{"id":"3515","fases":[0.4853,0.2036,0.0735,0.0202,0.0022,0.0002],"campeao":0.0002,"forca":35.3,"cab":false},"Deportiva Minera":{"id":"8125","fases":[0.2789,0.099,0.0272,0.0053,0.0005,0.0001],"campeao":0.0001,"forca":30.0,"cab":false},"UD Logrones":{"id":"3526","fases":[0.1754,0.0619,0.019,0.0036,0.0003,0.0],"campeao":0.0,"forca":30.0,"cab":false},"SD Amorebieta":{"id":"3528","fases":[0.2581,0.0897,0.0262,0.0046,0.0003,0.0],"campeao":0.0,"forca":30.0,"cab":false},"Barakaldo":{"id":"3529","fases":[0.2543,0.0911,0.0257,0.005,0.0001,0.0],"campeao":0.0,"forca":30.0,"cab":false},"SD Huesca":{"id":"3533","fases":[0.5047,0.2203,0.0817,0.0243,0.0027,0.0003],"campeao":0.0003,"forca":36.5,"cab":false},"Real Union De Irun":{"id":"3535","fases":[0.3088,0.1095,0.0327,0.0058,0.0005,0.0],"campeao":0.0,"forca":30.0,"cab":false},"Sestao River":{"id":"3536","fases":[0.3156,0.0795,0.0158,0.0021,0.0001,0.0],"campeao":0.0,"forca":22.4,"cab":false},"CD Pamplona":{"id":"8144","fases":[0.1825,0.0665,0.0209,0.004,0.0001,0.0],"campeao":0.0,"forca":30.0,"cab":false},"Trival Valderas":{"id":"3538","fases":[0.1929,0.0679,0.0208,0.0032,0.0002,0.0001],"campeao":0.0001,"forca":30.0,"cab":false},"CD Alcoyano":{"id":"3540","fases":[0.1139,0.0389,0.0112,0.002,0.0001,0.0001],"campeao":0.0001,"forca":30.0,"cab":false},"Eldense":{"id":"3544","fases":[0.4258,0.1514,0.0464,0.0092,0.0007,0.0001],"campeao":0.0001,"forca":31.2,"cab":false},"UE Sant Andreu":{"id":"3549","fases":[0.3322,0.0865,0.0196,0.0025,0.0001,0.0],"campeao":0.0,"forca":23.4,"cab":false},"FC Andorra":{"id":"8158","fases":[0.4666,0.1797,0.0619,0.0149,0.0011,0.0],"campeao":0.0,"forca":33.8,"cab":false},"Cartagena":{"id":"3553","fases":[0.1469,0.0515,0.0138,0.0024,0.0001,0.0],"campeao":0.0,"forca":27.5,"cab":false},"Utebo FC":{"id":"8163","fases":[0.1915,0.067,0.0197,0.0036,0.0001,0.0],"campeao":0.0,"forca":30.0,"cab":false},"Calvo Sotelo Puertollano":{"id":"8165","fases":[0.189,0.0633,0.019,0.0035,0.0002,0.0],"campeao":0.0,"forca":30.0,"cab":false},"Reus Reddis":{"id":"163569","fases":[0.1348,0.0338,0.0069,0.0007,0.0,0.0],"campeao":0.0,"forca":22.1,"cab":false},"CD Mijas":{"id":"22772","fases":[0.2591,0.0912,0.0259,0.0054,0.0004,0.0],"campeao":0.0,"forca":30.0,"cab":false},"CD Tarancon":{"id":"87288","fases":[0.1363,0.0488,0.0152,0.0027,0.0001,0.0],"campeao":0.0,"forca":30.0,"cab":false}},"ordem":["Barcelona","Real Madrid","Atlético de Madrid","Villarreal","Athletic Bilbao","Real Sociedad","Betis","Girona","Sevilla","Celta de Vigo","Rayo Vallecano","Alavés","Osasuna","Mallorca","Getafe","Valencia","Deportivo La Coruña","Racing Santander","Levante","Almeria","Elche","Málaga","SD Eibar","SD Huesca","CD Leonesa","Granada","Albacete","Sporting Gijon","Tenerife","CD Leganes","CE Sabadell","Cadiz","Burgos","CD Mirandes","Real Zaragoza","Eldense","Deportiva Ponferradina","CE Europa","CD Coria","Rayo Majadahonda","Valladolid","Deportiva Minera","Trival Valderas","CD Alcoyano","FC Andorra","AD Ceuta","CD Castellon","Zamora CF","Gimnastica de Torrelavega","UE Tavernes","Badajoz","Salmantino","Anaitasuna FT","CD Atletico Paso","Antequera","UD Las Palmas","Real Jaen","UD Logrones","SD Amorebieta","Barakaldo","Real Union De Irun","CD Pamplona","Utebo FC","Calvo Sotelo Puertollano","CD Mijas","CD Tarancon","Numancia","Cartagena","UE Sant Andreu","Extremadura","CDA Navalcarnero","Sestao River","Reus Reddis","Real Avila","Arosa","Club Portugalete"],"confrontos":[{"m":"CD Pamplona","v":"SD Eibar","pm":0.421,"vm":0.3006,"e":0.2851,"vv":0.4143},{"m":"Anaitasuna FT","v":"Alavés","pm":0.2305,"vm":0.1735,"e":0.2545,"vv":0.572},{"m":"Club Portugalete","v":"Real Union De Irun","pm":0.2932,"vm":0.2117,"e":0.2681,"vv":0.5202},{"m":"SD Amorebieta","v":"UD Logrones","pm":0.5927,"vm":0.4241,"e":0.2842,"vv":0.2917},{"m":"Utebo FC","v":"CE Sabadell","pm":0.4425,"vm":0.3162,"e":0.2864,"vv":0.3974},{"m":"Deportiva Minera","v":"Cartagena","pm":0.646,"vm":0.4664,"e":0.2786,"vv":0.255},{"m":"Reus Reddis","v":"Barakaldo","pm":0.4089,"vm":0.2954,"e":0.2846,"vv":0.4201},{"m":"Calvo Sotelo Puertollano","v":"Albacete","pm":0.4302,"vm":0.3097,"e":0.2859,"vv":0.4044},{"m":"Badajoz","v":"Tenerife","pm":0.4375,"vm":0.3125,"e":0.2861,"vv":0.4014},{"m":"CD Tarancon","v":"Levante","pm":0.316,"vm":0.2285,"e":0.2727,"vv":0.4988},{"m":"CD Alcoyano","v":"Mallorca","pm":0.2605,"vm":0.1918,"e":0.2616,"vv":0.5466},{"m":"Trival Valderas","v":"CD Leganes","pm":0.4482,"vm":0.3165,"e":0.2864,"vv":0.3971},{"m":"CD Mijas","v":"Real Jaen","pm":0.5911,"vm":0.4241,"e":0.2842,"vv":0.2917},{"m":"UE Tavernes","v":"Valencia","pm":0.2617,"vm":0.191,"e":0.2613,"vv":0.5477},{"m":"CDA Navalcarnero","v":"Betis","pm":0.0814,"vm":0.0671,"e":0.1814,"vv":0.7515},{"m":"Salmantino","v":"Celta de Vigo","pm":0.2057,"vm":0.1571,"e":0.2471,"vv":0.5958}],"finais":[{"a":"Real Madrid","b":"Barcelona","p":0.2556,"pa":0.3533},{"a":"Atlético de Madrid","b":"Barcelona","p":0.1431,"pa":0.215},{"a":"Real Madrid","b":"Atlético de Madrid","p":0.0743,"pa":0.6577},{"a":"Barcelona","b":"Villarreal","p":0.0413,"pa":0.8984},{"a":"Barcelona","b":"Real Sociedad","p":0.0373,"pa":0.9397},{"a":"Barcelona","b":"Athletic Bilbao","p":0.0331,"pa":0.9062}],"outros":0.0,"matriz":{"tipo":"sorteio","linhas":[["Barcelona",0.6815],["Real Madrid",0.4807],["Atlético de Madrid",0.2783],["Villarreal",0.0818],["Real Sociedad",0.0736]],"colunas":[["Real Madrid",0.4807],["Atlético de Madrid",0.2783],["Villarreal",0.0818],["Real Sociedad",0.0736],["Athletic Bilbao",0.066]],"cel":[[0.2556,0.1431,0.0413,0.0373,0.0331],[null,0.0743,0.021,0.0203,0.016],[null,null,0.0093,0.0081,0.0076],[null,null,null,0.0017,0.002],[null,null,null,null,0.0018]]},"chave":{"fases":["16 avos","Oitavas","Quartas","Semifinal","Final"],"jogos":[[null,null],[null,null],[null,null],[null,null],[null,null],[null,null],[null,null],[null,null],[null,null],[null,null],[null,null],[null,null],[null,null],[null,null],[null,null],[null,null]],"atual":false,"p":null,"fixa":false},"SIGLA":{"Club Portugalete":"CLU","Real Madrid":"RMA","Atlético de Madrid":"ATM","Barcelona":"BAR","CE Europa":"CEE","CD Castellon":"CDC","Zamora CF":"ZAM","CD Coria":"CDC","Villarreal":"VIL","Gimnastica de Torrelavega":"GIM","Arosa":"ARO","UE Tavernes":"UET","Badajoz":"BAD","Extremadura":"EXT","Rayo Majadahonda":"RAY","CDA Navalcarnero":"CDA","Real Avila":"REA","Salmantino":"SAL","Almeria":"ALM","Anaitasuna FT":"ANA","Athletic Bilbao":"ATH","Celta de Vigo":"CEL","CD Atletico Paso":"CDA","Elche":"ELC","Getafe":"GET","Antequera":"ANT","Granada":"GRA","Levante":"LEV","Cadiz":"CAD","CD Leganes":"CDL","AD Ceuta":"ADC","Racing Santander":"RAC","Málaga":"MAL","Rayo Vallecano":"RAY","Real Sociedad":"REA","Sevilla":"SEV","CD Mirandes":"CDM","Valencia":"VAL","Alavés":"ALA","Albacete":"ALB","Girona":"GIR","Betis":"BET","Mallorca":"MAL","Deportiva Ponferradina":"DEP","UD Las Palmas":"UDL","Osasuna":"OSA","Numancia":"NUM","Tenerife":"TEN","Valladolid":"VAL","Deportivo La Coruña":"DEP","Real Jaen":"REA","SD Eibar":"SDE","CE Sabadell":"CES","Real Zaragoza":"REA","Sporting Gijon":"SPO","Burgos":"BUR","CD Leonesa":"CDL","Deportiva Minera":"DEP","UD Logrones":"UDL","SD Amorebieta":"SDA","Barakaldo":"BAR","SD Huesca":"SDH","Real Union De Irun":"REA","Sestao River":"SES","CD Pamplona":"CDP","Trival Valderas":"TRI","CD Alcoyano":"CDA","Eldense":"ELD","UE Sant Andreu":"UES","FC Andorra":"FCA","Cartagena":"CAR","Utebo FC":"UTE","Calvo Sotelo Puertollano":"CAL","Reus Reddis":"REU","CD Mijas":"CDM","CD Tarancon":"CDT"},"SLUG":{"Club Portugalete":"club-portugalete","Real Madrid":"real-madrid","Atlético de Madrid":"atletico-de-madrid","Barcelona":"barcelona","CE Europa":"ce-europa","CD Castellon":"cd-castellon","Zamora CF":"zamora-cf","CD Coria":"cd-coria","Villarreal":"villarreal","Gimnastica de Torrelavega":"gimnastica-de-torrelavega","Arosa":"arosa","UE Tavernes":"ue-tavernes","Badajoz":"badajoz","Extremadura":"extremadura","Rayo Majadahonda":"rayo-majadahonda","CDA Navalcarnero":"cda-navalcarnero","Real Avila":"real-avila","Salmantino":"salmantino","Almeria":"almeria","Anaitasuna FT":"anaitasuna-ft","Athletic Bilbao":"athletic-bilbao","Celta de Vigo":"celta-de-vigo","CD Atletico Paso":"cd-atletico-paso","Elche":"elche","Getafe":"getafe","Antequera":"antequera","Granada":"granada","Levante":"levante","Cadiz":"cadiz","CD Leganes":"cd-leganes","AD Ceuta":"ad-ceuta","Racing Santander":"racing-santander","Málaga":"malaga","Rayo Vallecano":"rayo-vallecano","Real Sociedad":"real-sociedad","Sevilla":"sevilla","CD Mirandes":"cd-mirandes","Valencia":"valencia","Alavés":"alaves","Albacete":"albacete","Girona":"girona","Betis":"betis","Mallorca":"mallorca","Deportiva Ponferradina":"deportiva-ponferradina","UD Las Palmas":"ud-las-palmas","Osasuna":"osasuna","Numancia":"numancia","Tenerife":"tenerife","Valladolid":"valladolid","Deportivo La Coruña":"deportivo-la-coruna","Real Jaen":"real-jaen","SD Eibar":"sd-eibar","CE Sabadell":"ce-sabadell","Real Zaragoza":"real-zaragoza","Sporting Gijon":"sporting-gijon","Burgos":"burgos","CD Leonesa":"cd-leonesa","Deportiva Minera":"deportiva-minera","UD Logrones":"ud-logrones","SD Amorebieta":"sd-amorebieta","Barakaldo":"barakaldo","SD Huesca":"sd-huesca","Real Union De Irun":"real-union-de-irun","Sestao River":"sestao-river","CD Pamplona":"cd-pamplona","Trival Valderas":"trival-valderas","CD Alcoyano":"cd-alcoyano","Eldense":"eldense","UE Sant Andreu":"ue-sant-andreu","FC Andorra":"fc-andorra","Cartagena":"cartagena","Utebo FC":"utebo-fc","Calvo Sotelo Puertollano":"calvo-sotelo-puertollano","Reus Reddis":"reus-reddis","CD Mijas":"cd-mijas","CD Tarancon":"cd-tarancon"},"CORES":{"Club Portugalete":["#111111","#FFFFFF"],"Real Madrid":["#FFFFFF","#FEBE10"],"Atlético de Madrid":["#CB3524","#FFFFFF"],"Barcelona":["#A50044","#004D98"],"CE Europa":["#E35205","#FFFFFF"],"CD Castellon":["#16243A","#FFFFFF"],"Zamora CF":["#3EA6DD","#FFFFFF"],"CD Coria":["#C8102E","#FFFFFF"],"Villarreal":["#FFE667","#005187"],"Gimnastica de Torrelavega":["#3EA6DD","#FFFFFF"],"Arosa":["#0055A4","#FFFFFF"],"UE Tavernes":["#111111","#FFFFFF"],"Badajoz":["#5B2C83","#FFFFFF"],"Extremadura":["#6C1D45","#FFFFFF"],"Rayo Majadahonda":["#5B2C83","#FFFFFF"],"CDA Navalcarnero":["#111111","#FFFFFF"],"Real Avila":["#00843D","#FFFFFF"],"Salmantino":["#111111","#FFFFFF"],"Almeria":["#5B2C83","#FFFFFF"],"Anaitasuna FT":["#F2C230","#FFFFFF"],"Athletic Bilbao":["#C8102E","#FFFFFF"],"Celta de Vigo":["#5B2C83","#FFFFFF"],"CD Atletico Paso":["#00843D","#FFFFFF"],"Elche":["#C8102E","#FFFFFF"],"Getafe":["#E35205","#FFFFFF"],"Antequera":["#6C1D45","#FFFFFF"],"Granada":["#111111","#FFFFFF"],"Levante":["#5B2C83","#FFFFFF"],"Cadiz":["#C8102E","#FFFFFF"],"CD Leganes":["#16243A","#FFFFFF"],"AD Ceuta":["#00843D","#FFFFFF"],"Racing Santander":["#111111","#FFFFFF"],"Málaga":["#3EA6DD","#FFFFFF"],"Rayo Vallecano":["#16243A","#FFFFFF"],"Real Sociedad":["#111111","#FFFFFF"],"Sevilla":["#16243A","#FFFFFF"],"CD Mirandes":["#111111","#FFFFFF"],"Valencia":["#00843D","#FFFFFF"],"Alavés":["#111111","#FFFFFF"],"Albacete":["#F2C230","#FFFFFF"],"Girona":["#E35205","#FFFFFF"],"Betis":["#0BB363","#FFFFFF"],"Mallorca":["#C8102E","#FFFFFF"],"Deportiva Ponferradina":["#F2C230","#FFFFFF"],"UD Las Palmas":["#C8102E","#FFFFFF"],"Osasuna":["#16243A","#FFFFFF"],"Numancia":["#0055A4","#FFFFFF"],"Tenerife":["#E35205","#FFFFFF"],"Valladolid":["#16243A","#FFFFFF"],"Deportivo La Coruña":["#16243A","#FFFFFF"],"Real Jaen":["#0055A4","#FFFFFF"],"SD Eibar":["#111111","#FFFFFF"],"CE Sabadell":["#16243A","#FFFFFF"],"Real Zaragoza":["#C8102E","#FFFFFF"],"Sporting Gijon":["#5B2C83","#FFFFFF"],"Burgos":["#111111","#FFFFFF"],"CD Leonesa":["#E35205","#FFFFFF"],"Deportiva Minera":["#E35205","#FFFFFF"],"UD Logrones":["#111111","#FFFFFF"],"SD Amorebieta":["#16243A","#FFFFFF"],"Barakaldo":["#3EA6DD","#FFFFFF"],"SD Huesca":["#6C1D45","#FFFFFF"],"Real Union De Irun":["#E35205","#FFFFFF"],"Sestao River":["#F2C230","#FFFFFF"],"CD Pamplona":["#C8102E","#FFFFFF"],"Trival Valderas":["#111111","#FFFFFF"],"CD Alcoyano":["#5B2C83","#FFFFFF"],"Eldense":["#6C1D45","#FFFFFF"],"UE Sant Andreu":["#C8102E","#FFFFFF"],"FC Andorra":["#16243A","#FFFFFF"],"Cartagena":["#0055A4","#FFFFFF"],"Utebo FC":["#16243A","#FFFFFF"],"Calvo Sotelo Puertollano":["#E35205","#FFFFFF"],"Reus Reddis":["#16243A","#FFFFFF"],"CD Mijas":["#3EA6DD","#FFFFFF"],"CD Tarancon":["#5B2C83","#FFFFFF"]},"vaga":"Liga Europa","liga":"la-liga","liga_nome":"La Liga","nota_fase":"Jogo único na casa do time de divisão mais baixa até as oitavas; quartas em jogo único; semifinal em ida e volta. Os quatro times da Supercopa (Barcelona, Real Madrid, Atlético de Madrid e Real Sociedad) entram nos 16 avos de final.","final":"Final em jogo único, em campo neutro.","ultimo_jogo":{"data":"2026-10-29","hora":"17:00","m":"Xerez CD","v":"Cadiz","gm":1,"gv":3,"rodada":"Round 1"}};
 const T = D.times, ORD = D.ordem;
 const $ = s => document.querySelector(s);
 const SLUG = D.SLUG, SIGLA = D.SIGLA, CORES = D.CORES, ESC_DIR = 'escudos/';
